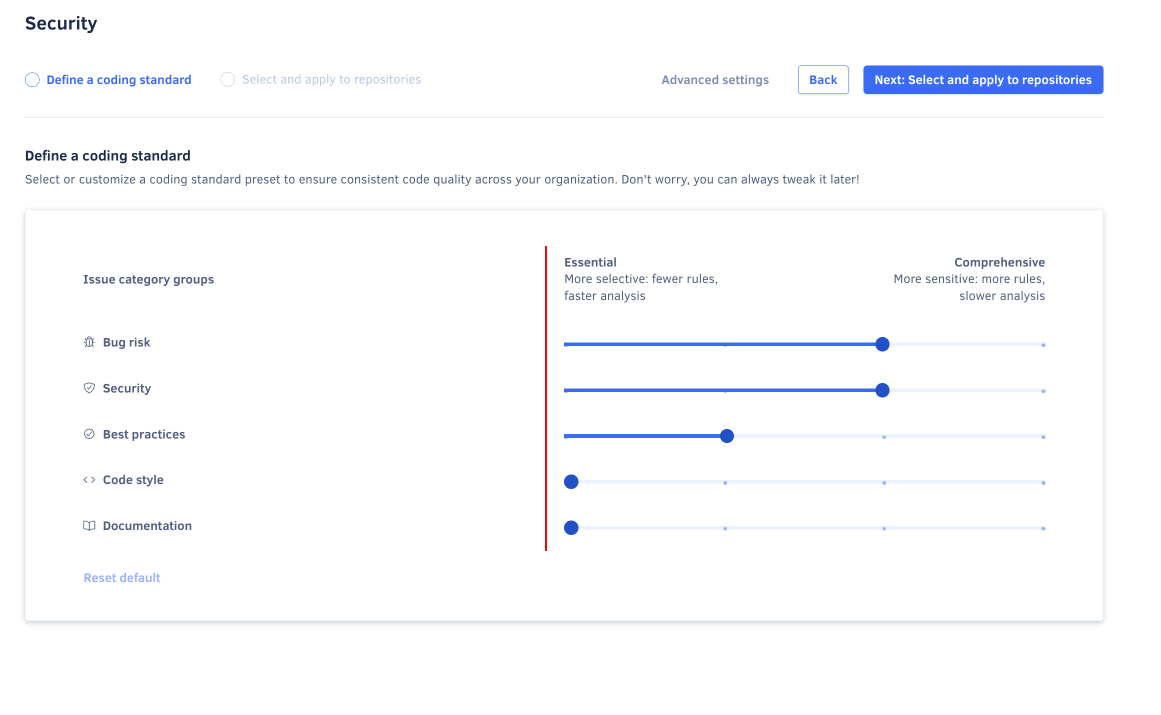
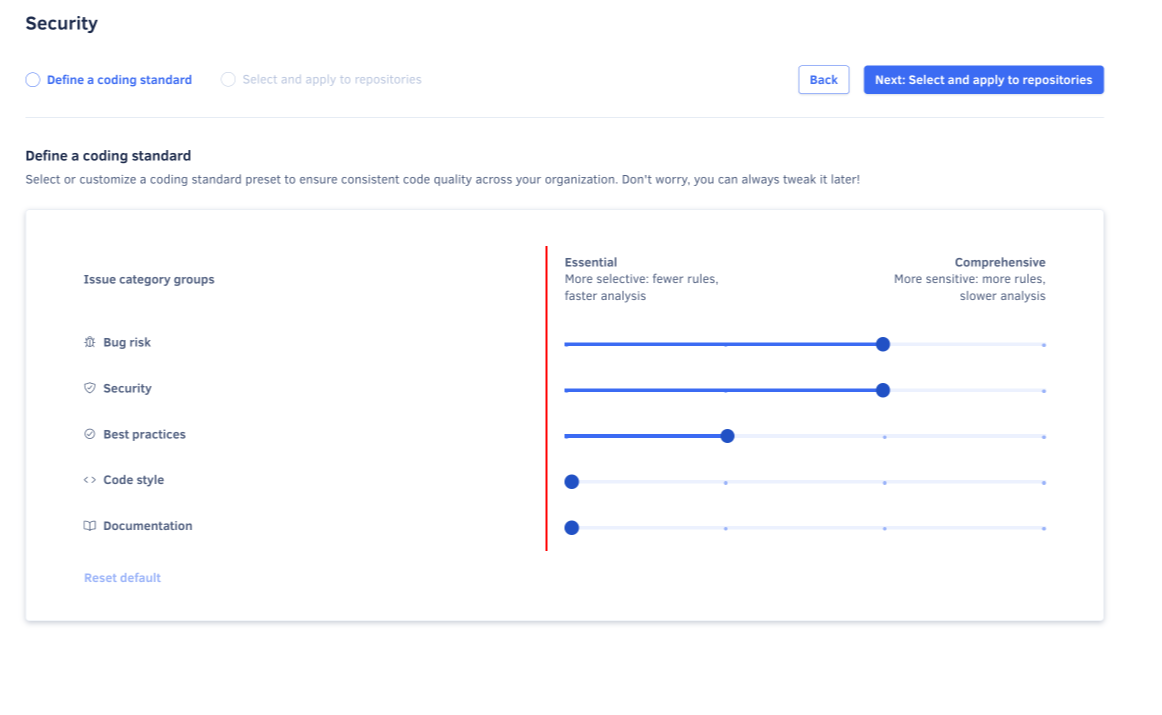
feat: Update CS creation flow

diff --git a/docs/organizations/using-coding-standards.md b/docs/organizations/using-coding-standards.md
@@ -5,7 +5,8 @@ Coding standards enable the analysis of multiple repositories with the same tool
 This page covers the following topics:
 
 -   [Creating a coding standard](#creating)
--   [Configuring a coding standard using advanced settings](#advanced-settings)
+-   [Configuring a coding standard (guided setup)](#guided-setup)
+-   [Configuring a coding standard (advanced setup)](#advanced-settings)
 -   [Defining a default coding standard](#set-default)
 -   [Editing a coding standard](#editing)
 -   [Deleting a coding standard](#deleting)
@@ -24,14 +25,23 @@ To create a coding standard for your organization:
 
 1.  Enter a unique name for the new coding standard.
 
-    Optionally, you can:
+    Optionally, you can set the new coding standard as your organization's [default coding standard](#set-default), so it applies automatically to new repositories.
 
-    -   Select a repository to use as a baseline for the new coding standard. This is useful if you already have a well-configured repository that you wish to use as a template.
-    -   Set the new coding standard as your organization's [default coding standard](#set-default), so it applies automatically to new repositories.
+    ![Creating a new coding standard](images/coding-standard-create.png)<!-- TODO ALA-1057 update image -->
 
-    ![Creating a new coding standard](images/coding-standard-create.png)
+1.  Choose whether to create the coding standard using a guided or advanced setup:
 
-1.  Click **Create coding standard**.
+    -   The **guided setup** lets you choose preset sensitivity levels for each issue type, turning on relevant patterns in bulk. It's ideal for quickly setting up a coding standard with minimal effort. You can always fine-tune the coding standard later using the advanced setup.
+
+    -   The **advanced setup** lets you choose individual languages and code patterns to activate. It's ideal for fine-tuning the coding standard to your organization's specific needs, offering more control over the tools and code patterns used.
+    
+        With the advanced setup, you can optionally select a repository as a baseline for the new coding standard. This is useful if you already have a well-configured repository that you wish to use as a template.
+
+1.  Click **Create coding standard** to proceed to the [guided setup](#guided-setup) or [advanced setup](#advanced-settings), depending on your choice.
+
+## Configuring a coding standard (guided setup) {: id="guided-setup"}
+
+If you selected **Guided setup** when [creating a new coding standard](#creating), follow these steps:
 
 1.  Adjust the sensitivity of the coding standard from **Essential** to **Comprehensive** for each issue category group:
 
@@ -40,8 +50,6 @@ To create a coding standard for your organization:
 
     !!! tip
         Initially, set the sensitivity to **Essential** for most category groups to focus on critical code patterns. It helps streamline the integration process with Codacy without overwhelming developers with too many reported issues. You can gradually include more patterns as needed.
-
-    If you want more control over included code patterns, click **Advanced settings** to [customize the coding standard](#advanced-settings).
 
     ![Coding standard presets](images/coding-standard-presets.png)
 
@@ -56,11 +64,9 @@ To create a coding standard for your organization:
 
     ![Applying the coding standard to repositories](images/coding-standard-apply.png)
 
-## Configuring a coding standard using advanced settings {: id="advanced-settings"}
+## Configuring a coding standard (advanced setup) {: id="advanced-settings"}
 
-If you need more control when [creating a new coding standard](#creating), click **Advanced settings** to more precisely define the tools and code patterns that the coding standard should use. When editing an existing coding standard, the advanced settings are the default view.
-
-To configure a coding standard using advanced settings:
+If you selected **Advanced setup** when [creating a new coding standard](#creating), follow these steps:
 
 1.  Select the programming languages that the new coding standard should include.
 
@@ -125,6 +131,9 @@ To edit an existing coding standard or change the repositories that follow that 
     ![Editing an existing coding standard](images/coding-standard-edit.png)
 
 1.  Edit the current coding standard configurations and click the button **Next** to advance to the following [configuration pages](#advanced-settings):
+
+    !!! note
+        When editing an existing coding standard, the [advanced setup](#advances-settings) is the default view.
 
     -   **Select languages**: the programming languages that the coding standard applies to.
 
